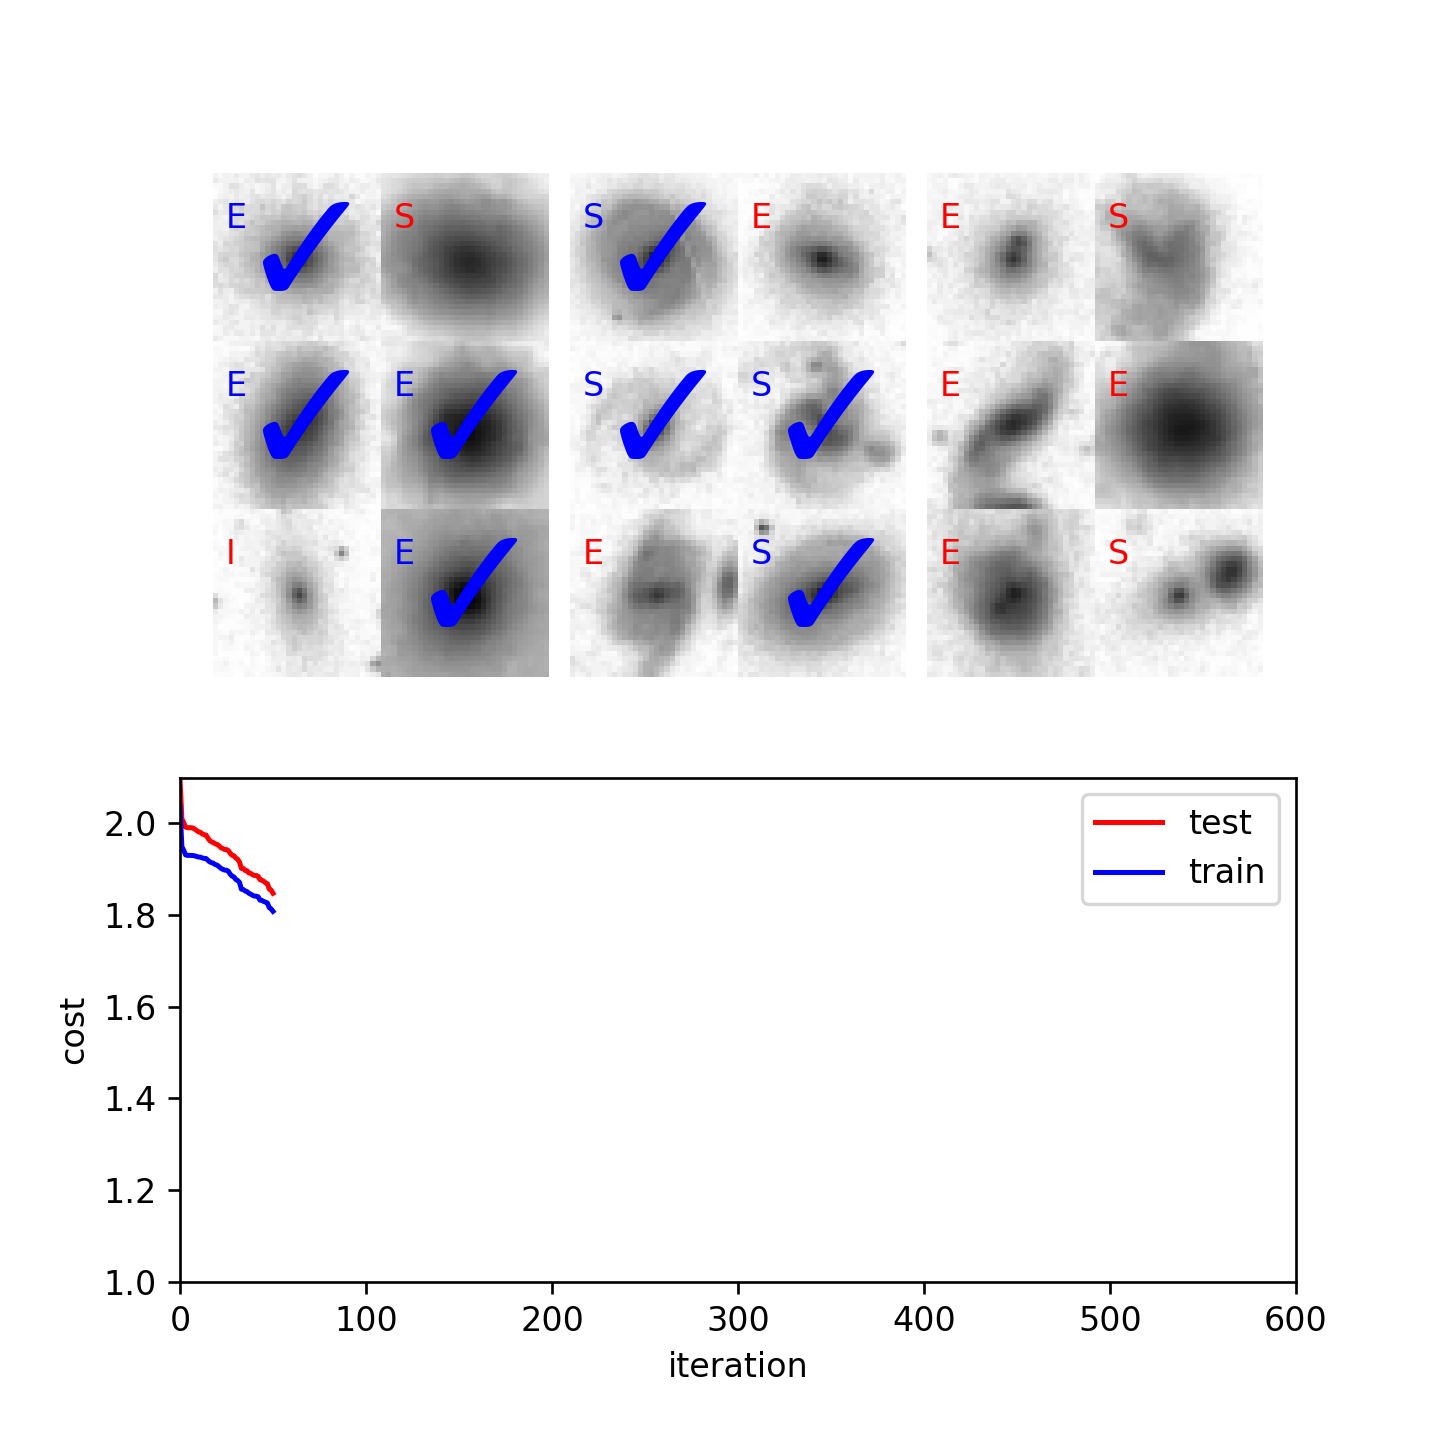
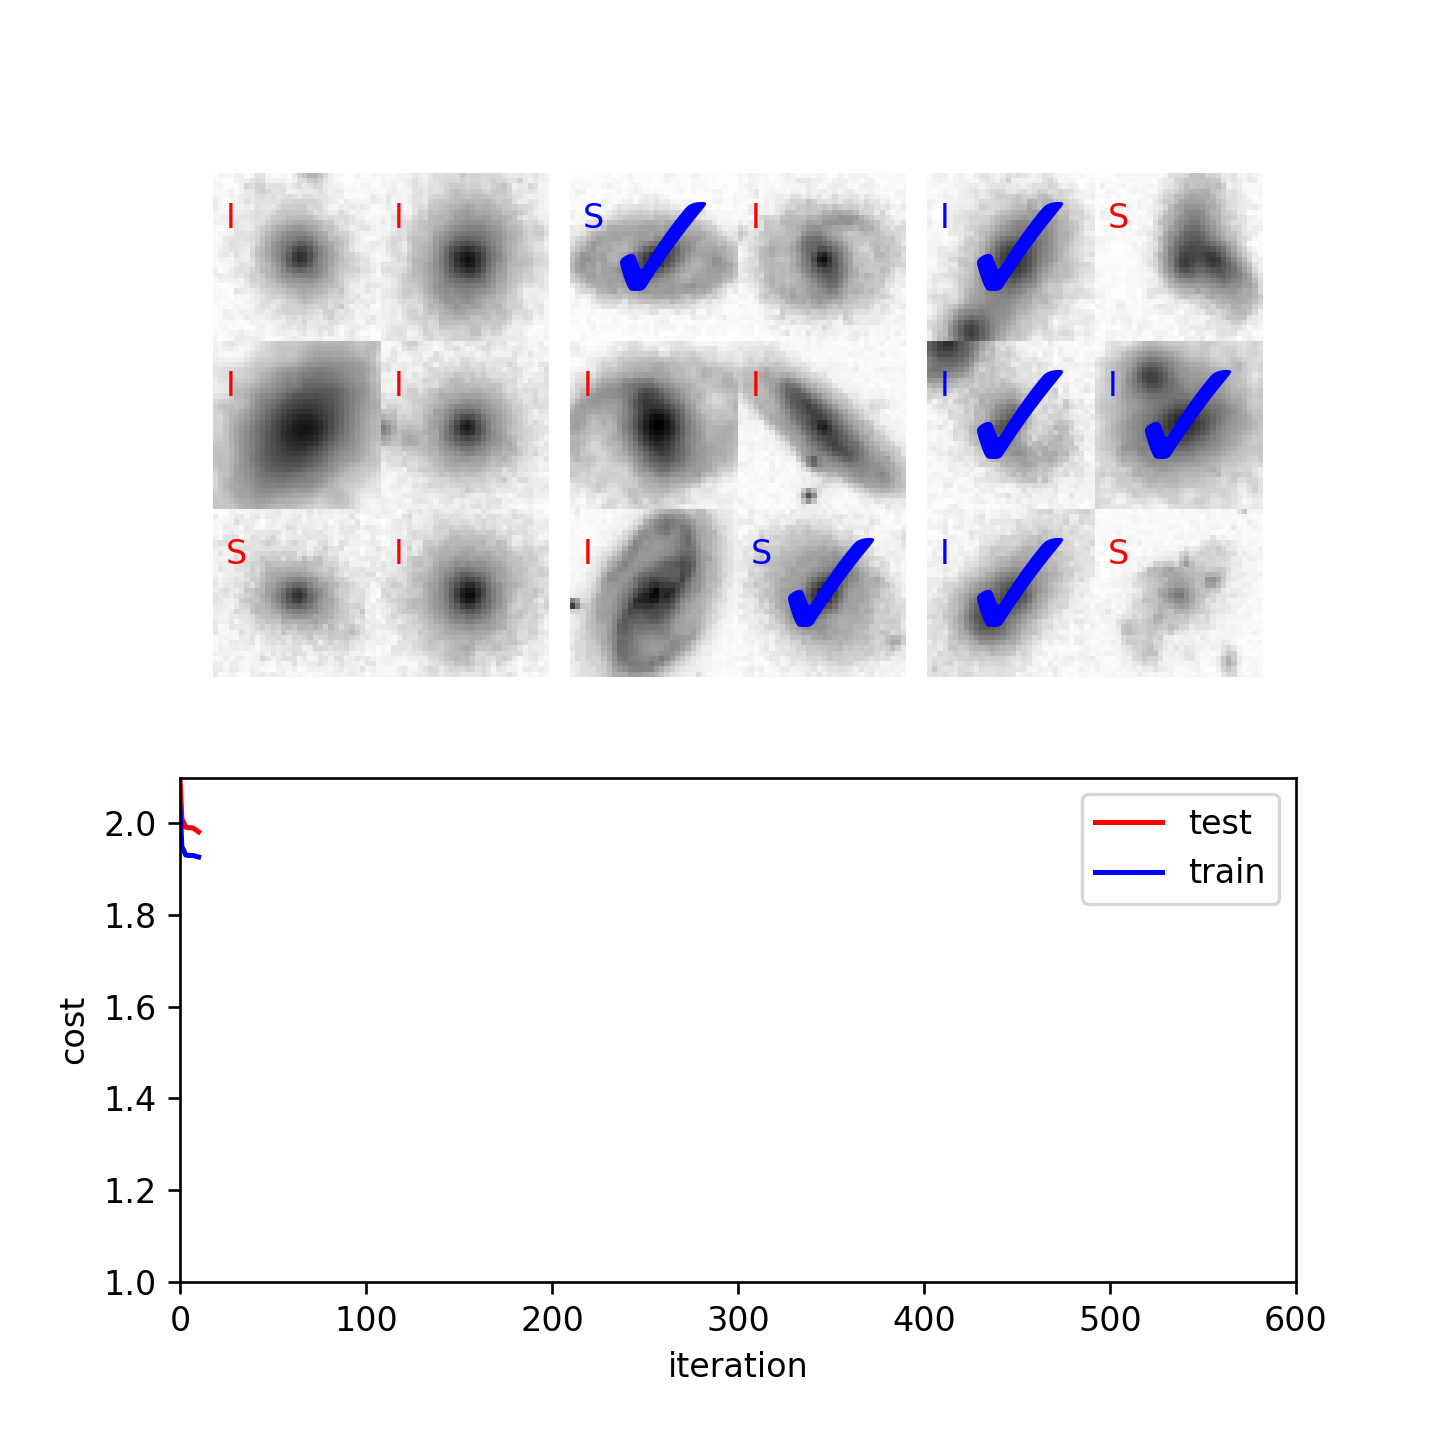
full benchmarks with adapted tests and jit impl. Results in /results

Changed region(s): [[0.125, 0.0938, 0.875, 0.4688], [0.1562, 0.5938, 0.1875, 0.625]]

diff --git a/ann_unoptimized.py b/ann_unoptimized.py
@@ -2,12 +2,9 @@ import matplotlib.pyplot as plt
 import numpy as np
 from scipy import optimize
 from functools import partial
-from numba import jit
-import logging
-from line_profiler import profile
 import pandas as pd
 from time import time
-
+import logging
 
 """
 Create Your Own Artificial Neural Network for Multi-class Classification (With Python)
@@ -20,12 +17,12 @@ Create and train your own artificial neural network to classify images of galaxi
 logging.basicConfig(level=logging.INFO)
 logger = logging.getLogger(__name__)
 
-@jit(nopython=True)
+
 def g(x):
     """ sigmoid function """
     return 1.0 / (1.0 + np.exp(-x))
 
-@jit(nopython=True)
+
 def grad_g(x):
     """ gradient of sigmoid function """
     gx = g(x)
@@ -53,15 +50,15 @@ def predict(Theta1, Theta2, X):
     prediction = np.argmax(a3, 1).reshape((m, 1))
     return prediction
 
-@jit(nopython=True)
+
 def reshape(theta, input_layer_size, hidden_layer_size, num_labels):
     """ reshape theta into Theta1 and Theta2, the weights of our neural network """
     ncut = hidden_layer_size * (input_layer_size + 1)
-    Theta1 = np.ascontiguousarray(theta[0:ncut].reshape(hidden_layer_size, input_layer_size + 1))
-    Theta2 = np.ascontiguousarray(theta[ncut:].reshape(num_labels, hidden_layer_size + 1))
+    Theta1 = theta[0:ncut].reshape(hidden_layer_size, input_layer_size + 1)
+    Theta2 = theta[ncut:].reshape(num_labels, hidden_layer_size + 1)
     return Theta1, Theta2
 
-@jit(nopython=True)
+
 def cost_function(theta, input_layer_size, hidden_layer_size, num_labels, X, y, lmbda):
     """ Neural net cost function for a three layer classification network.
     Input:
@@ -101,6 +98,7 @@ def cost_function(theta, input_layer_size, hidden_layer_size, num_labels, X, y, 
 
     return J
 
+
 def gradient(theta, input_layer_size, hidden_layer_size, num_labels, X, y, lmbda):
     """ Neural net cost function gradient for a three layer classification network.
     Input:
@@ -117,6 +115,7 @@ def gradient(theta, input_layer_size, hidden_layer_size, num_labels, X, y, lmbda
 
     # unflatten theta
     Theta1, Theta2 = reshape(theta, input_layer_size, hidden_layer_size, num_labels)
+
     # number of training values
     m = len(y)
 
@@ -125,7 +124,24 @@ def gradient(theta, input_layer_size, hidden_layer_size, num_labels, X, y, lmbda
     Delta1 = np.zeros((hidden_layer_size, input_layer_size + 1))
     Delta2 = np.zeros((num_labels, hidden_layer_size + 1))
 
-    Delta1, Delta2 = grad_loop(Delta1, Delta2, Theta1, Theta2, X, input_layer_size, m, num_labels, y)
+    for t in range(m):
+        # forward
+        a1 = X[t, :].reshape((input_layer_size, 1))
+        a1 = np.vstack((1, a1))  # +bias
+        z2 = Theta1 @ a1
+        a2 = g(z2)
+        a2 = np.vstack((1, a2))  # +bias
+        a3 = g(Theta2 @ a2)
+
+        # compute error for layer 3
+        y_k = np.zeros((num_labels, 1))
+        y_k[y[t, 0].astype(int)] = 1
+        delta3 = a3 - y_k
+        Delta2 += (delta3 @ a2.T)
+
+        # compute error for layer 2
+        delta2 = (Theta2[:, 1:].T @ delta3) * grad_g(z2)
+        Delta1 += (delta2 @ a1.T)
 
     Theta1_grad = Delta1 / m
     Theta2_grad = Delta2 / m
@@ -138,31 +154,6 @@ def gradient(theta, input_layer_size, hidden_layer_size, num_labels, X, y, lmbda
     grad = np.concatenate((Theta1_grad.flatten(), Theta2_grad.flatten()))
 
     return grad
-
-@jit(nopython=True)
-def grad_loop(Delta1, Delta2, Theta1, Theta2, X, input_layer_size, m, num_labels, y):
-    for t in range(m):
-        # forward
-        # a1 = X[t, :].reshape((input_layer_size, 1))
-        a1 = np.empty((input_layer_size, 1))
-        a1[:] = X[t, :][:, np.newaxis]
-        a1 = np.vstack((np.ones((1, 1)), a1))  # +bias
-        z2 = Theta1 @ a1
-        a2 = g(z2)
-        a2 = np.vstack((np.ones((1, 1)), a2))  # +bias
-        a3 = g(Theta2 @ a2)
-
-        # compute error for layer 3
-        y_k = np.zeros((num_labels, 1))
-        y_k[int(y[t, 0])] = 1
-        delta3 = np.ascontiguousarray(a3 - y_k)
-        Delta2 += (delta3 @ a2.T)
-
-        # compute error for layer 2
-        delta2 = (np.ascontiguousarray(Theta2[:, 1:].T) @ delta3) * grad_g(z2) # 29.42s wo contiguous
-        # delta2 = (Theta2[:, 1:].copy().T @ delta3.copy()) * grad_g(z2) # 21.1s
-        Delta1 += (delta2 @ a1.T)
-    return Delta1, Delta2
 
 
 N_iter = 1
@@ -179,8 +170,6 @@ def callbackF(input_layer_size, hidden_layer_size, num_labels, X, y, lmbda, test
     global theta_best
     global Js_train
     global Js_test
-
-    start_time = time()
     # unflatten theta
     Theta1, Theta2 = reshape(theta_k, input_layer_size, hidden_layer_size, num_labels)
     # training data stats
@@ -193,14 +182,11 @@ def callbackF(input_layer_size, hidden_layer_size, num_labels, X, y, lmbda, test
     test_pred = predict(Theta1, Theta2, test)
     accuracy_test = np.sum(1. * (test_pred == test_label)) / len(test_label)
     Js_test = np.append(Js_test, J_test)
-
-    # Print stats with timing
-    logger.info(
-        f'iter={N_iter:3d} ({time() - start_time:.2f}s): '
-        f'Jtrain={J:0.4f} acc={100 * accuracy:0.2f}% | '
-        f'Jtest={J_test:0.4f} acc={100 * accuracy_test:0.2f}%'
-    )
-
+    # print stats
+    print(
+        'iter={:3d}:  Jtrain= {:0.4f} acc= {:0.2f}%  |  Jtest= {:0.4f} acc= {:0.2f}%'.format(N_iter, J, 100 * accuracy,
+                                                                                             J_test,
+                                                                                             100 * accuracy_test))
     N_iter += 1
     # Update theta_best
     if (J_test < J_min):

diff --git a/benchmark_multip_vs_gpu.py b/benchmark_multip_vs_gpu.py
@@ -7,6 +7,7 @@ import os
 import sys
 
 # Import the implementations
+import ann_unoptimized
 import multiprocessing_cpu
 import torch_improvements
 import torch_improvements_gpu
@@ -32,6 +33,7 @@ def run_benchmark(iterations=[10, 20, 50], runs=3):
     results = []
 
     implementations = [
+        ("Unoptimized", ann_unoptimized),
         ("Multiprocessing", multiprocessing_cpu),
         ("Torch-CPU", torch_improvements),
         ("Torch-GPU", torch_improvements_gpu),
@@ -83,7 +85,7 @@ def plot_results(results):
     plt.figure(figsize=(12, 8))
 
     # Plot training time vs iterations for each implementation
-    plt.subplot(2, 1, 1)
+    plt.subplot(5, 1, 1)
     implementations = results['Implementation'].unique()
     iterations = results['Iterations'].unique()
 
@@ -100,7 +102,7 @@ def plot_results(results):
     plt.legend()
 
     # Plot speedup ratio vs iterations
-    plt.subplot(2, 1, 2)
+    plt.subplot(5, 1, 2)
 
     baseline = results[results['Implementation'] == implementations[0]]
 
@@ -134,8 +136,10 @@ def main():
     logger.info("Results saved to benchmark_results.csv")
 
     # Plot results
-    plot_results(results)
-
+    try:
+        plot_results(results)
+    except Exception as e:
+        print(e)
     # Print summary
     print("\nBenchmark Summary:")
     print(results)
